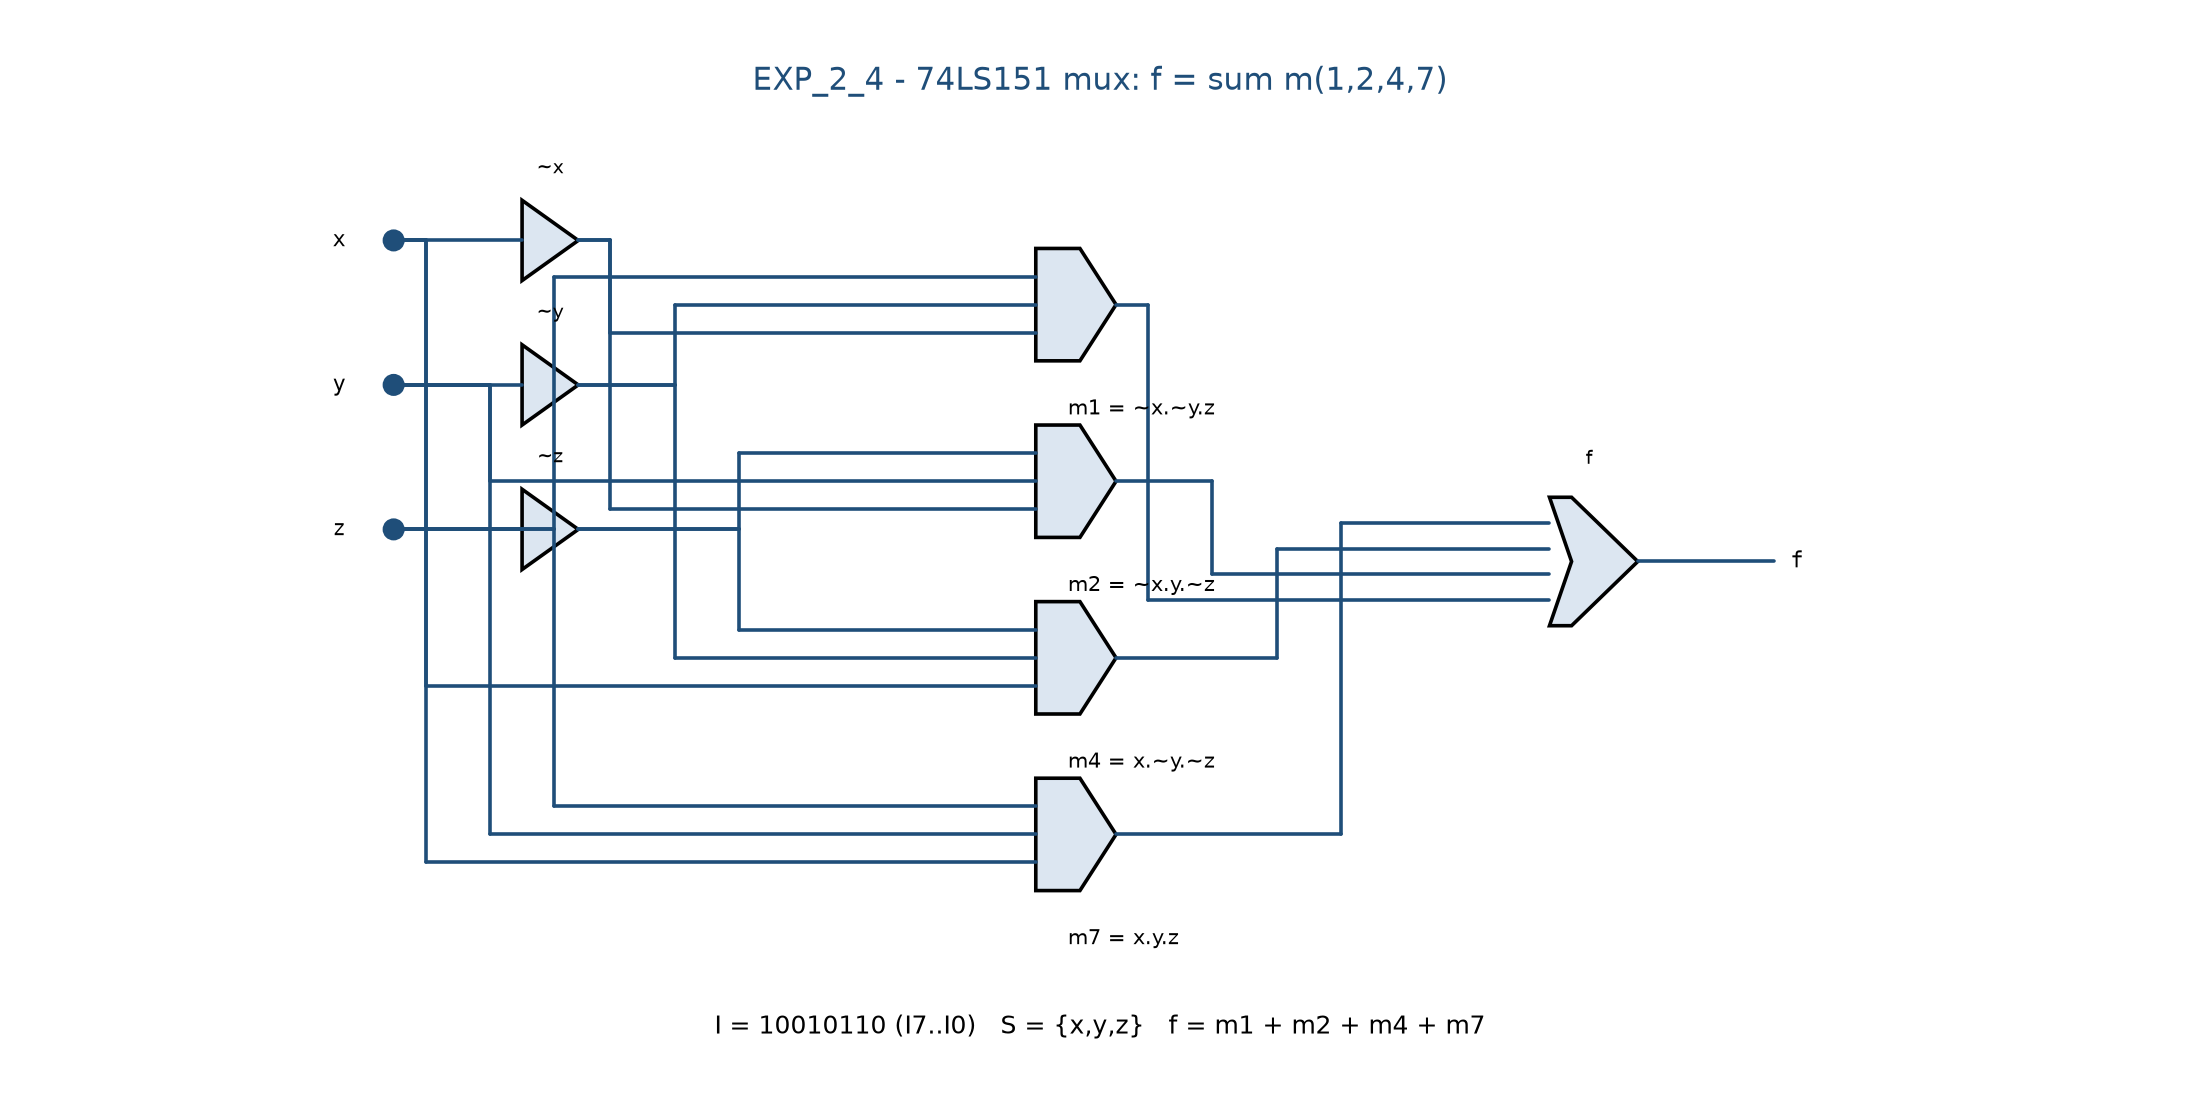
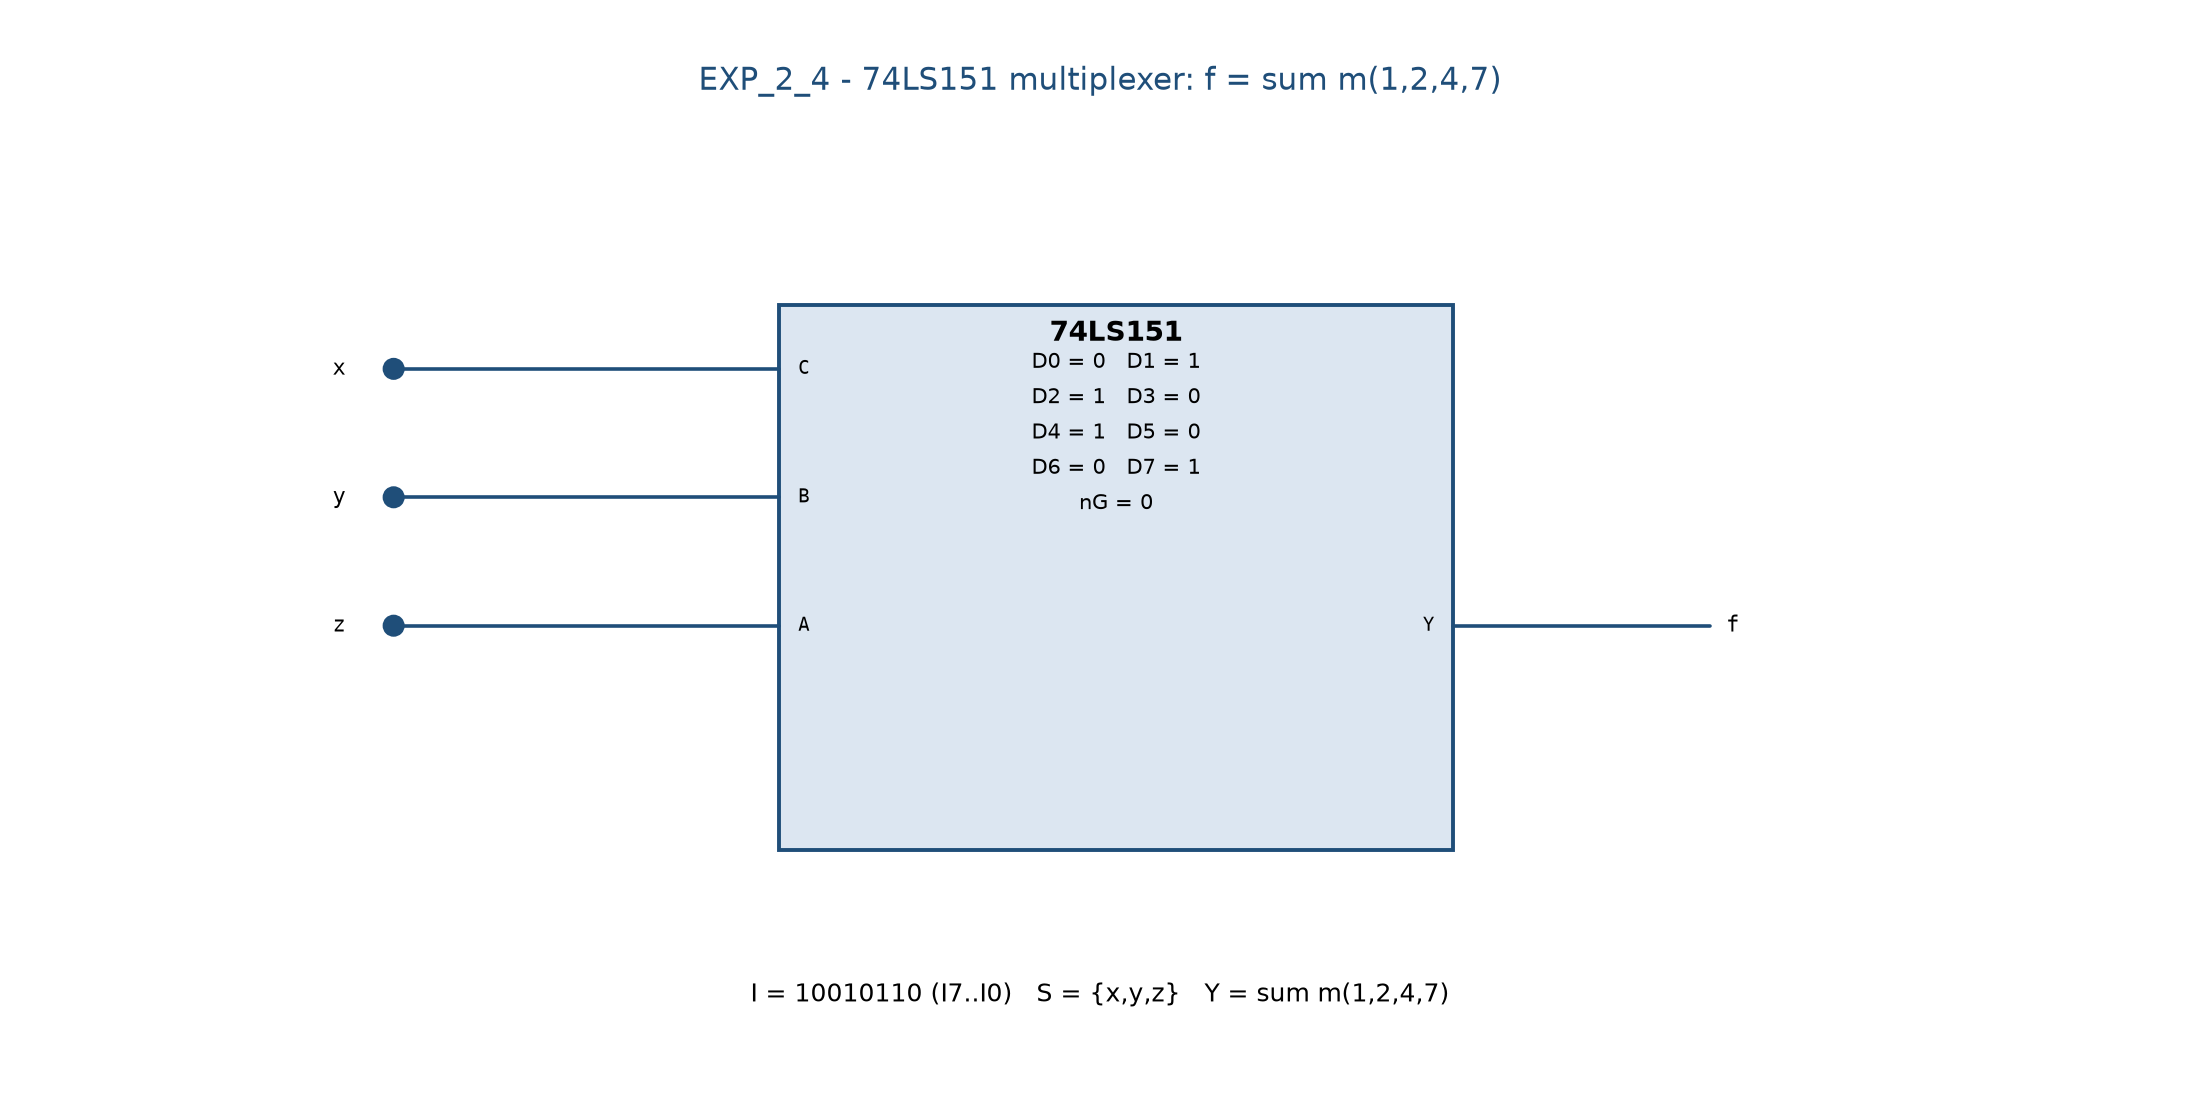
Lab 2: redraw the 74LS151 and 74LS138 logic diagrams with the real ICs

diff --git a/tools/draw_lab2.py b/tools/draw_lab2.py
@@ -128,15 +128,55 @@ def minterm_diagram(title, formula, keep, path):
 
 def exp_2_4(path):
     """74LS151: f = sum m(1,2,4,7)"""
-    minterm_diagram("EXP_2_4 - 74LS151 mux: f = sum m(1,2,4,7)",
-                    "I = 10010110 (I7..I0)   S = {x,y,z}   f = m1 + m2 + m4 + m7", [1, 2, 4, 7], path)
+    s = Sheet(11, 5.6, "EXP_2_4 - 74LS151 multiplexer: f = sum m(1,2,4,7)")
+    # dong du lieu I7..I0 = 10010110 va dong chon S = {x,y,z}
+    for k, name in enumerate(["x", "y", "z"]):
+        y = 44 - 8 * k
+        s.dot(6, y)
+        s.label(3, y, name, size=8, ha="right")
+    s.box(30, 14, 42, 34, "74LS151",
+          ["D0 = 0   D1 = 1", "D2 = 1   D3 = 0", "D4 = 1   D5 = 0",
+           "D6 = 0   D7 = 1", "nG = 0"], tsize=10)
+    s.pin(30, 44, "C")
+    s.pin(30, 36, "B")
+    s.pin(30, 28, "A")
+    s.pin(72, 28, "Y", side="left")
+    s.wire(6, 44, 30, 44)
+    s.wire(6, 36, 30, 36)
+    s.wire(6, 28, 30, 28)
+    s.wire(72, 28, 88, 28)
+    s.label(89, 28, "f", size=8, ha="left")
+    s.text(50, 5, "I = 10010110 (I7..I0)   S = {x,y,z}   Y = sum m(1,2,4,7)", size=9)
+    s.save(path)
 
 
 def exp_2_5(path):
     """74LS138: f = sum m(0,2,5,7)"""
-    minterm_diagram("EXP_2_5 - 74LS138 decoder: f = sum m(0,2,5,7)",
-                    "E1 = E2 = 0, E3 = 1, outputs active low   f = m0 + m2 + m5 + m7",
-                    [0, 2, 5, 7], path)
+    s = Sheet(11, 5.6, "EXP_2_5 - 74LS138 decoder: f = sum m(0,2,5,7)")
+    for k, name in enumerate(["x", "y", "z"]):
+        y = 46 - 8 * k
+        s.dot(6, y)
+        s.label(3, y, name, size=8, ha="right")
+    s.box(20, 16, 30, 32, "74LS138",
+          ["nEN2A = 0", "nEN2B = 0", "EN1 = 1", "Y0..Y7 muc thap"], tsize=10)
+    s.pin(20, 44, "C")
+    s.pin(20, 36, "B")
+    s.pin(20, 28, "A")
+    s.wire(6, 44, 20, 44)
+    s.wire(6, 36, 20, 36)
+    s.wire(6, 28, 20, 28)
+    # 74LS08 (2 AND) + 74LS00 (1 NAND) -> f = ~(Y0.Y2.Y5.Y7)
+    s.box(54, 20, 22, 24, "74LS08", ["Y0.Y2", "Y5.Y7"], tsize=9)
+    for name, y in (("Y0", 40), ("Y2", 34), ("Y5", 28), ("Y7", 22)):
+        s.pin(54, y, name)
+        s.wire(50, y, 54, y)
+    s.box(80, 22, 14, 18, "74LS00", ["f"], tsize=9)
+    s.wire(76, 38, 80, 38)
+    s.wire(76, 30, 80, 30)
+    s.wire(94, 31, 97, 31)
+    s.label(97, 31, "f", size=8, ha="left")
+    s.text(50, 1, "f = ~(Y0 . Y2 . Y5 . Y7) = sum m(0,2,5,7)", size=9)
+    s.save(path)
 
 
 JOBS = [
